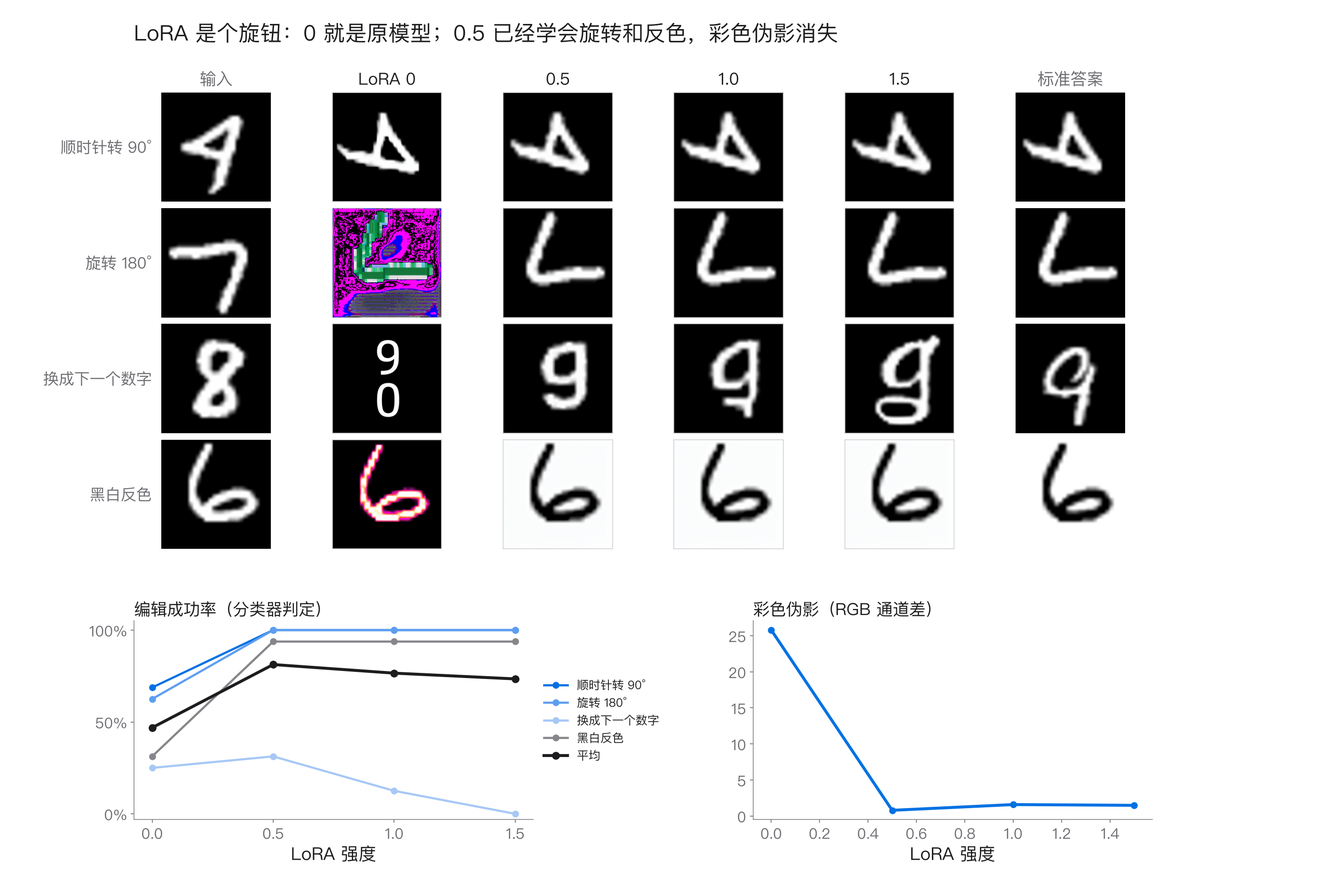
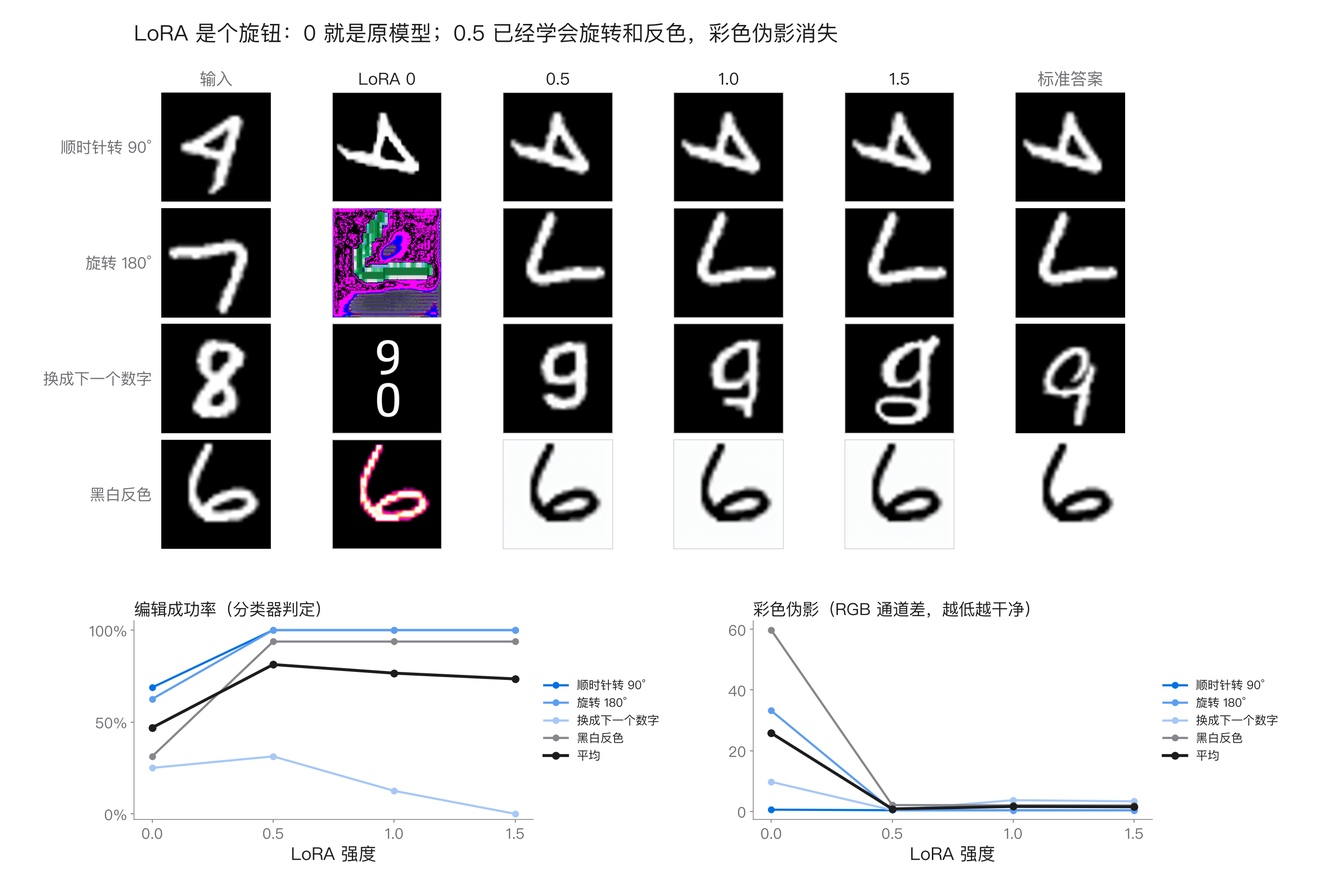
Update the lecture deck
Inference pages now use the fine-tuned LoRA (CFG, sigma shift, LoRA scale,
sampling steps) with keyword-first titles, a new page explains how the
success rate is scored (undo the edit, then classify), the per-step x0_hat
page is folded into the steps page, code excerpt pages are removed, and
section labels follow one storyline: setup, training step, model details,
training loss, generation results.

diff --git a/deck/practice.html b/deck/practice.html
@@ -278,7 +278,7 @@ svg[data-anim] [data-a].on{opacity:1}
     <div class="notes tight" style="flex:none;flex-direction:row;gap:20px;margin-top:26px;align-items:stretch">
       <div class="note" style="flex:1"><b>数据</b>训练集 4 × 500 = 2000 对，测试集 4 × 16 = 64 对。28 × 28 的数字放大到 512 × 512，转成 RGB。</div>
       <div class="note" style="flex:1"><b>为什么做编辑</b>参考图同时进 Qwen3-VL 和 VAE、前缀按 t = 0 调制、KV cache，这些 2.1 的特色只有编辑任务才用得上。</div>
-      <div class="note" style="flex:1"><b>怎么打分</b>输出缩回 28 × 28，转回来 / 反色回来，交给小 CNN 分类（MNIST 测试准确率 98.8%），数字对上算成功；旋转和反色另算像素 IoU。</div>
+      <div class="note" style="flex:1"><b>怎么打分</b>把输出变回正立、黑底白字，交给分类器认数字，认对了算成功；旋转和反色另算像素 IoU。细节见第 <span data-pageof="成功率怎么算">?</span> 页。</div>
       <div class="note" style="flex:1"><b>为什么是这四个</b>旋转、反色的答案唯一；「下一个数字」要懂语义，答案是另一个人写的 n + 1，不唯一。</div>
     </div>
 </section>
@@ -434,6 +434,20 @@ svg[data-anim] [data-a].on{opacity:1}
   </div>
 </section>
 
+<section class="slide" data-sec="05 生图效果" data-title="成功率怎么算">
+  <div class="kicker"><b>05</b>生图效果 · 测试集每种编辑 16 张 · 分类器是在 MNIST 训练集上训的小网络，测试集准确率 98.8% · 图中是第 3000 步 LoRA 的真实输出</div>
+  <h1>成功率怎么算：<span class="thin">先变回正立，</span><span class="acc">再让分类器认数字</span></h1>
+  <div class="split">
+    <div class="fig card"><img src="media/qi21_c_scoring.png" alt=""></div>
+    <div class="notes tight">
+      <div class="note"><b>为什么先做逆变换</b>分类器只见过黑底白字、正立的数字，转过的 4、反色的 6 它都认不出。所以先按任务把输出变回去：转 90° 的逆时针转回来，转 180° 的再转一次，反色的再反一次。</div>
+      <div class="note"><b>怎么判</b>认出的数字等于期望数字就算成功：旋转和反色期望原数字，换数字期望 n + 1（9 → 0）。16 张里成功的比例就是这种编辑的成功率。</div>
+      <div class="note"><b>换数字只看数字，不看写法</b>标准答案是另一个人写的 n + 1，本来就不唯一；画出来是 n + 1 就算对。旋转和反色另算像素 IoU，看是不是逐像素变换。</div>
+      <div class="note"><b>分类器也会判错</b>98.8% 不是 100%，笔画潦草的输出偶尔会被认错，比如有一张 9 被认成了 8。每种编辑只有 16 张，一张就是 6 个点。</div>
+    </div>
+  </div>
+</section>
+
 <section class="slide" data-sec="05 生图效果" data-title="成功率">
   <div class="kicker"><b>05</b>生图效果 · 每 200 步在测试集上生图一次，分类器判定成败</div>
   <h1>loss 已经平了，<span class="acc">成功率才台阶式跳上去</span></h1>
@@ -474,40 +488,28 @@ svg[data-anim] [data-a].on{opacity:1}
     </div>
 </section>
 
-<section class="slide" data-sec="05 生图效果" data-title="每一步的 x0_hat">
-  <div class="kicker"><b>05</b>生图效果 · 推理过程 · 用真实权重跑一次编辑前向，逐行记录张量 · 数字 5 +「顺时针旋转 90 度」，512²，40 步</div>
-  <h1>每一步都能预估终点：<span class="acc">第 5 步就定型</span>，<span class="thin">后面只修细节</span></h1>
-  <div class="fig card"><img src="media/qi21_a_x0hat.png" alt=""></div>
-    <div class="notes tight" style="flex:none;flex-direction:row;gap:20px;margin-top:26px;align-items:stretch">
-      <div class="note" style="flex:1"><b>怎么预估</b>x0′ = x_t − σ · v：假设速度不再变，沿当前的 v 一步直走到 σ = 0。它是模型此刻对终点的最好猜测（条件均值），不是真正采样的终点。</div>
-      <div class="note" style="flex:1"><b>σ 表</b>1024 个目标 token 算出 μ = 0.54，40 个 σ 从 1.0 降到 0.02，最后补 0；前面密、后面疏。</div>
-      <div class="note" style="flex:1"><b>第 1 步看不出东西</b>σ = 1 时 x0′ 几乎全黑，只有一小团色块；到第 5 步（σ = 0.94）已经是转好的 5。</div>
-      <div class="note" style="flex:1"><b>判对了，但不是真旋转</b>零样本就被分类器判成功，和标准答案的像素 IoU 却只有 0.24：模型重画了一个转过来的 5，不是逐像素旋转。</div>
-    </div>
-</section>
-
 <section class="slide" data-sec="05 生图效果" data-title="CFG">
-  <div class="kicker"><b>05</b>生图效果 · 推理设置 · 底模、同一批 64 个输入和噪声（每种编辑 16 个），只改一个推理设置 · 负向提示词为空</div>
-  <h1>CFG &gt; 1 让旋转更听话：<span class="acc">47% → 61%</span><span class="thin">，但慢一倍</span></h1>
+  <div class="kicker"><b>05</b>生图效果 · 推理设置 · 第 3000 步的 LoRA，同一批 64 个输入和噪声（每种编辑 16 个），只改 CFG · 负向提示词为空</div>
+  <h1>调 CFG：只帮「换数字」<span class="acc">6% → 31%</span><span class="thin">，但慢一倍</span></h1>
   <div class="split">
-    <div class="fig card"><img src="media/qi21_c_cfg.png" alt=""></div>
+    <div class="fig card"><img src="media/qi21_c_lora_cfg.png" alt=""></div>
     <div class="notes tight">
       <div class="note"><b>公式</b>v = v_neg + s · (v_cond − v_neg)：v_cond 带指令和参考图，v_neg 用空负向提示词，每步两次前向。s = 1 就是 v_cond（2.1 默认），s &gt; 1 沿「条件带来的差」多走几倍；2.1 不缩范数。</div>
-      <div class="note"><b>旋转明显变好</b>顺时针 90°：69% → 94%；180°：62% → 94%。默认设置下偶尔出现的紫绿色块也少了。</div>
-      <div class="note"><b>太大开始出问题</b>CFG 7 的少数图冒出色块；耗时从 2.6 s 翻到 5.1 s。</div>
-      <div class="note"><b>「下一个数字」不受影响</b>底模把指令里的「9 变成 0」当文字画出来，CFG 放大的也是这个理解，成功率一直在 25% 左右。</div>
+      <div class="note"><b>确定的三个任务已经饱和</b>转 90° 和 180° 都是 100%，反色 94%，CFG 调到多少都不变，IoU 也一直在 0.94–0.99。</div>
+      <div class="note"><b>换数字：6% → 19% → 31% → 31%</b>对应 CFG 1 / 2 / 4 / 7；照抄原数字的比例从 12% 降到 0。每种编辑只有 16 个样本，差一个样本就是 6 个点。</div>
+      <div class="note"><b>代价</b>每张从 2.3 s 翻到 4.6 s。彩色伪影反而从 1.6 降到 0.7，CFG 7 也没冒色块。</div>
     </div>
   </div>
 </section>
 
 <section class="slide" data-sec="05 生图效果" data-title="shift">
-  <div class="kicker"><b>05</b>生图效果 · 推理设置 · 底模、同一批 64 个输入和噪声（每种编辑 16 个），只改一个推理设置 · 40 步，关掉动态 shift 改成固定值</div>
-  <h1>shift 只改 σ 怎么分配：<span class="acc">40 步下几乎没影响</span></h1>
+  <div class="kicker"><b>05</b>生图效果 · 推理设置 · 第 3000 步的 LoRA，同一批 64 个输入和噪声（每种编辑 16 个）· 40 步，关掉动态 shift 改成固定值</div>
+  <h1>调 σ 分布（shift）：<span class="acc">40 步下几乎没影响</span></h1>
   <div class="split">
-    <div class="fig card"><img src="media/qi21_c_shift.png" alt=""></div>
+    <div class="fig card"><img src="media/qi21_c_lora_shift.png" alt=""></div>
     <div class="notes tight">
       <div class="note"><b>怎么改的</b>关掉动态 shift，改成固定的 shift = s，最小 σ 仍停在 0.02。默认的动态 shift 在 512² 下约等于 1.71。</div>
-      <div class="note"><b>结果</b>shift 1 / 默认 / 3 / 6：成功率 45% / 47% / 48% / 47%，在 64 个样本的误差范围内。</div>
+      <div class="note"><b>结果</b>shift 1 / 默认 / 3 / 6：成功率 75% / 75% / 77% / 77%。差别全在「换数字」的 1 到 2 个样本，另外三个任务一个都没变。</div>
       <div class="note"><b>为什么没影响</b>40 步足够密，σ 怎么分配都能把轨迹走完；shift 的作用要在步数少、分辨率高时才明显。</div>
       <div class="note"><b>没跑的组合</b>少步数 × 不同 shift 这次没测，不能外推。</div>
     </div>
@@ -516,27 +518,27 @@ svg[data-anim] [data-a].on{opacity:1}
 
 <section class="slide" data-sec="05 生图效果" data-title="LoRA 强度">
   <div class="kicker"><b>05</b>生图效果 · 推理设置 · 第 3000 步的 LoRA，同一批 64 个输入和噪声 · 加载 LoRA 后按比例缩放它的输出</div>
-  <h1>LoRA 是个旋钮：<span class="thin">0 就是原模型，</span><span class="acc">0.5 已经够用</span></h1>
+  <h1>调 LoRA 强度：<span class="thin">0 就是原模型，</span><span class="acc">0.5 已经够用</span></h1>
   <div class="split">
     <div class="fig card"><img src="media/qi21_c_lora_scale.png" alt=""></div>
     <div class="notes tight">
       <div class="note"><b>0 = 原模型</b>强度 0 的输出和底模逐像素相同：LoRA 只是加在原权重上的一个增量，关掉就回到原样。</div>
       <div class="note"><b>0.5 就学会了</b>成功率 47% → 81%：两种旋转 100%，反色 94%（底模一次都没做对），紫绿色块全部消失。</div>
       <div class="note"><b>调大反而伤语义</b>强度 0.5 / 1.0 / 1.5 时「下一个数字」31% / 12% / 0%，其余三个任务不变：过强的 LoRA 把「照着参考图变换」推过了头。</div>
-      <div class="note"><b>再加 CFG 4</b>77% → 81%，涨的全是「下一个数字」（12% → 31%），耗时翻倍。</div>
+      <div class="note"><b>右下小图：彩色伪影</b>MNIST 只有黑白灰，出现颜色就是画坏了。把每个像素 RGB 三个通道的最大差取平均：强度 0 时反色 60、转 180° 33、换数字 10（底模冒出紫绿色块，见 180° 那格），转 90° 本来就干净；0.5 起四个任务都降到 2 以下。</div>
     </div>
   </div>
 </section>
 
-<section class="slide" data-sec="05 生图效果" data-title="微调后的步数">
-  <div class="kicker"><b>05</b>生图效果 · 推理设置 · 第 3000 步的 LoRA，同一批 64 个输入和噪声 · LoRA 强度 1.0，只改采样步数</div>
-  <h1>答案唯一的编辑 <span class="acc">4 步就够</span>，<span class="thin">答案不唯一的糊成平均图</span></h1>
+<section class="slide" data-sec="05 生图效果" data-title="采样步数">
+  <div class="kicker"><b>05</b>生图效果 · 推理设置 · 第 3000 步的 LoRA，同一批 64 个输入和噪声（每种编辑 16 个）· LoRA 强度 1.0，只改采样步数</div>
+  <h1>调采样步数：答案唯一的 <span class="acc">2 步就够</span><span class="thin">，换数字糊成平均图</span></h1>
   <div class="split">
     <div class="fig card"><img src="media/qi21_c_lora_steps.png" alt=""></div>
     <div class="notes tight">
-      <div class="note"><b>4 步 = 40 步</b>两种旋转、反色在 4 步时成功率和 40 步一样，每张 0.45 s，快 6.4 倍。</div>
-      <div class="note"><b>「下一个数字」4 步是一团糊</b>目标是另一个人写的 n + 1，可能的答案很多；少步时每一步落在这些答案的平均上，出来是一团模糊的影子。</div>
-      <div class="note"><b>和底模对照</b>不加 LoRA 的底模 2–4 步所有任务都又暗又糊；微调后答案唯一的任务条件分布变得很窄，平均图就是答案本身。</div>
+      <div class="note"><b>2 步 = 40 步</b>两种旋转 100%、反色 94%，从 2 步到 40 步一个不差；每张 0.3 s 对 2.3 s，快 8 倍。</div>
+      <div class="note"><b>「下一个数字」少步是一团糊</b>目标是另一个人写的 n + 1，可能的答案很多；少步时每一步落在这些答案的平均上，出来是一团模糊的影子，16 步起才画成一个具体的 9。</div>
+      <div class="note"><b>右下小图：笔画亮度</b>不用分类器，直接量像素：取每张图最亮那 1% 像素的亮度（反色先反回来），按任务分开画。发灰的只有「换数字」：2 步 43%、4 步 71%、8 步起 97%；另外三个任务 2 步就接近 100%。</div>
       <div class="note"><b>所以少步靠什么</b>让条件分布变窄（微调到具体任务）或专门蒸馏；只改采样器救不了答案本来就多的任务。</div>
     </div>
   </div>

diff --git a/deck/src/practice.html b/deck/src/practice.html
@@ -16,7 +16,7 @@
     <div class="notes tight" style="flex:none;flex-direction:row;gap:20px;margin-top:26px;align-items:stretch">
       <div class="note" style="flex:1"><b>数据</b>训练集 4 × 500 = 2000 对，测试集 4 × 16 = 64 对。28 × 28 的数字放大到 512 × 512，转成 RGB。</div>
       <div class="note" style="flex:1"><b>为什么做编辑</b>参考图同时进 Qwen3-VL 和 VAE、前缀按 t = 0 调制、KV cache，这些 2.1 的特色只有编辑任务才用得上。</div>
-      <div class="note" style="flex:1"><b>怎么打分</b>输出缩回 28 × 28，转回来 / 反色回来，交给小 CNN 分类（MNIST 测试准确率 98.8%），数字对上算成功；旋转和反色另算像素 IoU。</div>
+      <div class="note" style="flex:1"><b>怎么打分</b>把输出变回正立、黑底白字，交给分类器认数字，认对了算成功；旋转和反色另算像素 IoU。细节见第 <span data-pageof="成功率怎么算">?</span> 页。</div>
       <div class="note" style="flex:1"><b>为什么是这四个</b>旋转、反色的答案唯一；「下一个数字」要懂语义，答案是另一个人写的 n + 1，不唯一。</div>
     </div>
 </section>
@@ -172,6 +172,20 @@
   </div>
 </section>
 
+<section class="slide" data-sec="05 生图效果" data-title="成功率怎么算">
+  <div class="kicker"><b>05</b>生图效果 · 测试集每种编辑 16 张 · 分类器是在 MNIST 训练集上训的小网络，测试集准确率 98.8% · 图中是第 3000 步 LoRA 的真实输出</div>
+  <h1>成功率怎么算：<span class="thin">先变回正立，</span><span class="acc">再让分类器认数字</span></h1>
+  <div class="split">
+    <div class="fig card"><img src="media/qi21_c_scoring.png" alt=""></div>
+    <div class="notes tight">
+      <div class="note"><b>为什么先做逆变换</b>分类器只见过黑底白字、正立的数字，转过的 4、反色的 6 它都认不出。所以先按任务把输出变回去：转 90° 的逆时针转回来，转 180° 的再转一次，反色的再反一次。</div>
+      <div class="note"><b>怎么判</b>认出的数字等于期望数字就算成功：旋转和反色期望原数字，换数字期望 n + 1（9 → 0）。16 张里成功的比例就是这种编辑的成功率。</div>
+      <div class="note"><b>换数字只看数字，不看写法</b>标准答案是另一个人写的 n + 1，本来就不唯一；画出来是 n + 1 就算对。旋转和反色另算像素 IoU，看是不是逐像素变换。</div>
+      <div class="note"><b>分类器也会判错</b>98.8% 不是 100%，笔画潦草的输出偶尔会被认错，比如有一张 9 被认成了 8。每种编辑只有 16 张，一张就是 6 个点。</div>
+    </div>
+  </div>
+</section>
+
 <section class="slide" data-sec="05 生图效果" data-title="成功率">
   <div class="kicker"><b>05</b>生图效果 · 每 200 步在测试集上生图一次，分类器判定成败</div>
   <h1>loss 已经平了，<span class="acc">成功率才台阶式跳上去</span></h1>
@@ -212,40 +226,28 @@
     </div>
 </section>
 
-<section class="slide" data-sec="05 生图效果" data-title="每一步的 x0_hat">
-  <div class="kicker"><b>05</b>生图效果 · 推理过程 · 用真实权重跑一次编辑前向，逐行记录张量 · 数字 5 +「顺时针旋转 90 度」，512²，40 步</div>
-  <h1>每一步都能预估终点：<span class="acc">第 5 步就定型</span>，<span class="thin">后面只修细节</span></h1>
-  <div class="fig card"><img src="media/qi21_a_x0hat.png" alt=""></div>
-    <div class="notes tight" style="flex:none;flex-direction:row;gap:20px;margin-top:26px;align-items:stretch">
-      <div class="note" style="flex:1"><b>怎么预估</b>x0′ = x_t − σ · v：假设速度不再变，沿当前的 v 一步直走到 σ = 0。它是模型此刻对终点的最好猜测（条件均值），不是真正采样的终点。</div>
-      <div class="note" style="flex:1"><b>σ 表</b>1024 个目标 token 算出 μ = 0.54，40 个 σ 从 1.0 降到 0.02，最后补 0；前面密、后面疏。</div>
-      <div class="note" style="flex:1"><b>第 1 步看不出东西</b>σ = 1 时 x0′ 几乎全黑，只有一小团色块；到第 5 步（σ = 0.94）已经是转好的 5。</div>
-      <div class="note" style="flex:1"><b>判对了，但不是真旋转</b>零样本就被分类器判成功，和标准答案的像素 IoU 却只有 0.24：模型重画了一个转过来的 5，不是逐像素旋转。</div>
-    </div>
-</section>
-
 <section class="slide" data-sec="05 生图效果" data-title="CFG">
-  <div class="kicker"><b>05</b>生图效果 · 推理设置 · 底模、同一批 64 个输入和噪声（每种编辑 16 个），只改一个推理设置 · 负向提示词为空</div>
-  <h1>CFG &gt; 1 让旋转更听话：<span class="acc">47% → 61%</span><span class="thin">，但慢一倍</span></h1>
+  <div class="kicker"><b>05</b>生图效果 · 推理设置 · 第 3000 步的 LoRA，同一批 64 个输入和噪声（每种编辑 16 个），只改 CFG · 负向提示词为空</div>
+  <h1>调 CFG：只帮「换数字」<span class="acc">6% → 31%</span><span class="thin">，但慢一倍</span></h1>
   <div class="split">
-    <div class="fig card"><img src="media/qi21_c_cfg.png" alt=""></div>
+    <div class="fig card"><img src="media/qi21_c_lora_cfg.png" alt=""></div>
     <div class="notes tight">
       <div class="note"><b>公式</b>v = v_neg + s · (v_cond − v_neg)：v_cond 带指令和参考图，v_neg 用空负向提示词，每步两次前向。s = 1 就是 v_cond（2.1 默认），s &gt; 1 沿「条件带来的差」多走几倍；2.1 不缩范数。</div>
-      <div class="note"><b>旋转明显变好</b>顺时针 90°：69% → 94%；180°：62% → 94%。默认设置下偶尔出现的紫绿色块也少了。</div>
-      <div class="note"><b>太大开始出问题</b>CFG 7 的少数图冒出色块；耗时从 2.6 s 翻到 5.1 s。</div>
-      <div class="note"><b>「下一个数字」不受影响</b>底模把指令里的「9 变成 0」当文字画出来，CFG 放大的也是这个理解，成功率一直在 25% 左右。</div>
+      <div class="note"><b>确定的三个任务已经饱和</b>转 90° 和 180° 都是 100%，反色 94%，CFG 调到多少都不变，IoU 也一直在 0.94–0.99。</div>
+      <div class="note"><b>换数字：6% → 19% → 31% → 31%</b>对应 CFG 1 / 2 / 4 / 7；照抄原数字的比例从 12% 降到 0。每种编辑只有 16 个样本，差一个样本就是 6 个点。</div>
+      <div class="note"><b>代价</b>每张从 2.3 s 翻到 4.6 s。彩色伪影反而从 1.6 降到 0.7，CFG 7 也没冒色块。</div>
     </div>
   </div>
 </section>
 
 <section class="slide" data-sec="05 生图效果" data-title="shift">
-  <div class="kicker"><b>05</b>生图效果 · 推理设置 · 底模、同一批 64 个输入和噪声（每种编辑 16 个），只改一个推理设置 · 40 步，关掉动态 shift 改成固定值</div>
-  <h1>shift 只改 σ 怎么分配：<span class="acc">40 步下几乎没影响</span></h1>
+  <div class="kicker"><b>05</b>生图效果 · 推理设置 · 第 3000 步的 LoRA，同一批 64 个输入和噪声（每种编辑 16 个）· 40 步，关掉动态 shift 改成固定值</div>
+  <h1>调 σ 分布（shift）：<span class="acc">40 步下几乎没影响</span></h1>
   <div class="split">
-    <div class="fig card"><img src="media/qi21_c_shift.png" alt=""></div>
+    <div class="fig card"><img src="media/qi21_c_lora_shift.png" alt=""></div>
     <div class="notes tight">
       <div class="note"><b>怎么改的</b>关掉动态 shift，改成固定的 shift = s，最小 σ 仍停在 0.02。默认的动态 shift 在 512² 下约等于 1.71。</div>
-      <div class="note"><b>结果</b>shift 1 / 默认 / 3 / 6：成功率 45% / 47% / 48% / 47%，在 64 个样本的误差范围内。</div>
+      <div class="note"><b>结果</b>shift 1 / 默认 / 3 / 6：成功率 75% / 75% / 77% / 77%。差别全在「换数字」的 1 到 2 个样本，另外三个任务一个都没变。</div>
       <div class="note"><b>为什么没影响</b>40 步足够密，σ 怎么分配都能把轨迹走完；shift 的作用要在步数少、分辨率高时才明显。</div>
       <div class="note"><b>没跑的组合</b>少步数 × 不同 shift 这次没测，不能外推。</div>
     </div>
@@ -254,27 +256,27 @@
 
 <section class="slide" data-sec="05 生图效果" data-title="LoRA 强度">
   <div class="kicker"><b>05</b>生图效果 · 推理设置 · 第 3000 步的 LoRA，同一批 64 个输入和噪声 · 加载 LoRA 后按比例缩放它的输出</div>
-  <h1>LoRA 是个旋钮：<span class="thin">0 就是原模型，</span><span class="acc">0.5 已经够用</span></h1>
+  <h1>调 LoRA 强度：<span class="thin">0 就是原模型，</span><span class="acc">0.5 已经够用</span></h1>
   <div class="split">
     <div class="fig card"><img src="media/qi21_c_lora_scale.png" alt=""></div>
     <div class="notes tight">
       <div class="note"><b>0 = 原模型</b>强度 0 的输出和底模逐像素相同：LoRA 只是加在原权重上的一个增量，关掉就回到原样。</div>
       <div class="note"><b>0.5 就学会了</b>成功率 47% → 81%：两种旋转 100%，反色 94%（底模一次都没做对），紫绿色块全部消失。</div>
       <div class="note"><b>调大反而伤语义</b>强度 0.5 / 1.0 / 1.5 时「下一个数字」31% / 12% / 0%，其余三个任务不变：过强的 LoRA 把「照着参考图变换」推过了头。</div>
-      <div class="note"><b>再加 CFG 4</b>77% → 81%，涨的全是「下一个数字」（12% → 31%），耗时翻倍。</div>
+      <div class="note"><b>右下小图：彩色伪影</b>MNIST 只有黑白灰，出现颜色就是画坏了。把每个像素 RGB 三个通道的最大差取平均：强度 0 时反色 60、转 180° 33、换数字 10（底模冒出紫绿色块，见 180° 那格），转 90° 本来就干净；0.5 起四个任务都降到 2 以下。</div>
     </div>
   </div>
 </section>
 
-<section class="slide" data-sec="05 生图效果" data-title="微调后的步数">
-  <div class="kicker"><b>05</b>生图效果 · 推理设置 · 第 3000 步的 LoRA，同一批 64 个输入和噪声 · LoRA 强度 1.0，只改采样步数</div>
-  <h1>答案唯一的编辑 <span class="acc">4 步就够</span>，<span class="thin">答案不唯一的糊成平均图</span></h1>
+<section class="slide" data-sec="05 生图效果" data-title="采样步数">
+  <div class="kicker"><b>05</b>生图效果 · 推理设置 · 第 3000 步的 LoRA，同一批 64 个输入和噪声（每种编辑 16 个）· LoRA 强度 1.0，只改采样步数</div>
+  <h1>调采样步数：答案唯一的 <span class="acc">2 步就够</span><span class="thin">，换数字糊成平均图</span></h1>
   <div class="split">
     <div class="fig card"><img src="media/qi21_c_lora_steps.png" alt=""></div>
     <div class="notes tight">
-      <div class="note"><b>4 步 = 40 步</b>两种旋转、反色在 4 步时成功率和 40 步一样，每张 0.45 s，快 6.4 倍。</div>
-      <div class="note"><b>「下一个数字」4 步是一团糊</b>目标是另一个人写的 n + 1，可能的答案很多；少步时每一步落在这些答案的平均上，出来是一团模糊的影子。</div>
-      <div class="note"><b>和底模对照</b>不加 LoRA 的底模 2–4 步所有任务都又暗又糊；微调后答案唯一的任务条件分布变得很窄，平均图就是答案本身。</div>
+      <div class="note"><b>2 步 = 40 步</b>两种旋转 100%、反色 94%，从 2 步到 40 步一个不差；每张 0.3 s 对 2.3 s，快 8 倍。</div>
+      <div class="note"><b>「下一个数字」少步是一团糊</b>目标是另一个人写的 n + 1，可能的答案很多；少步时每一步落在这些答案的平均上，出来是一团模糊的影子，16 步起才画成一个具体的 9。</div>
+      <div class="note"><b>右下小图：笔画亮度</b>不用分类器，直接量像素：取每张图最亮那 1% 像素的亮度（反色先反回来），按任务分开画。发灰的只有「换数字」：2 步 43%、4 步 71%、8 步起 97%；另外三个任务 2 步就接近 100%。</div>
       <div class="note"><b>所以少步靠什么</b>让条件分布变窄（微调到具体任务）或专门蒸馏；只改采样器救不了答案本来就多的任务。</div>
     </div>
   </div>
